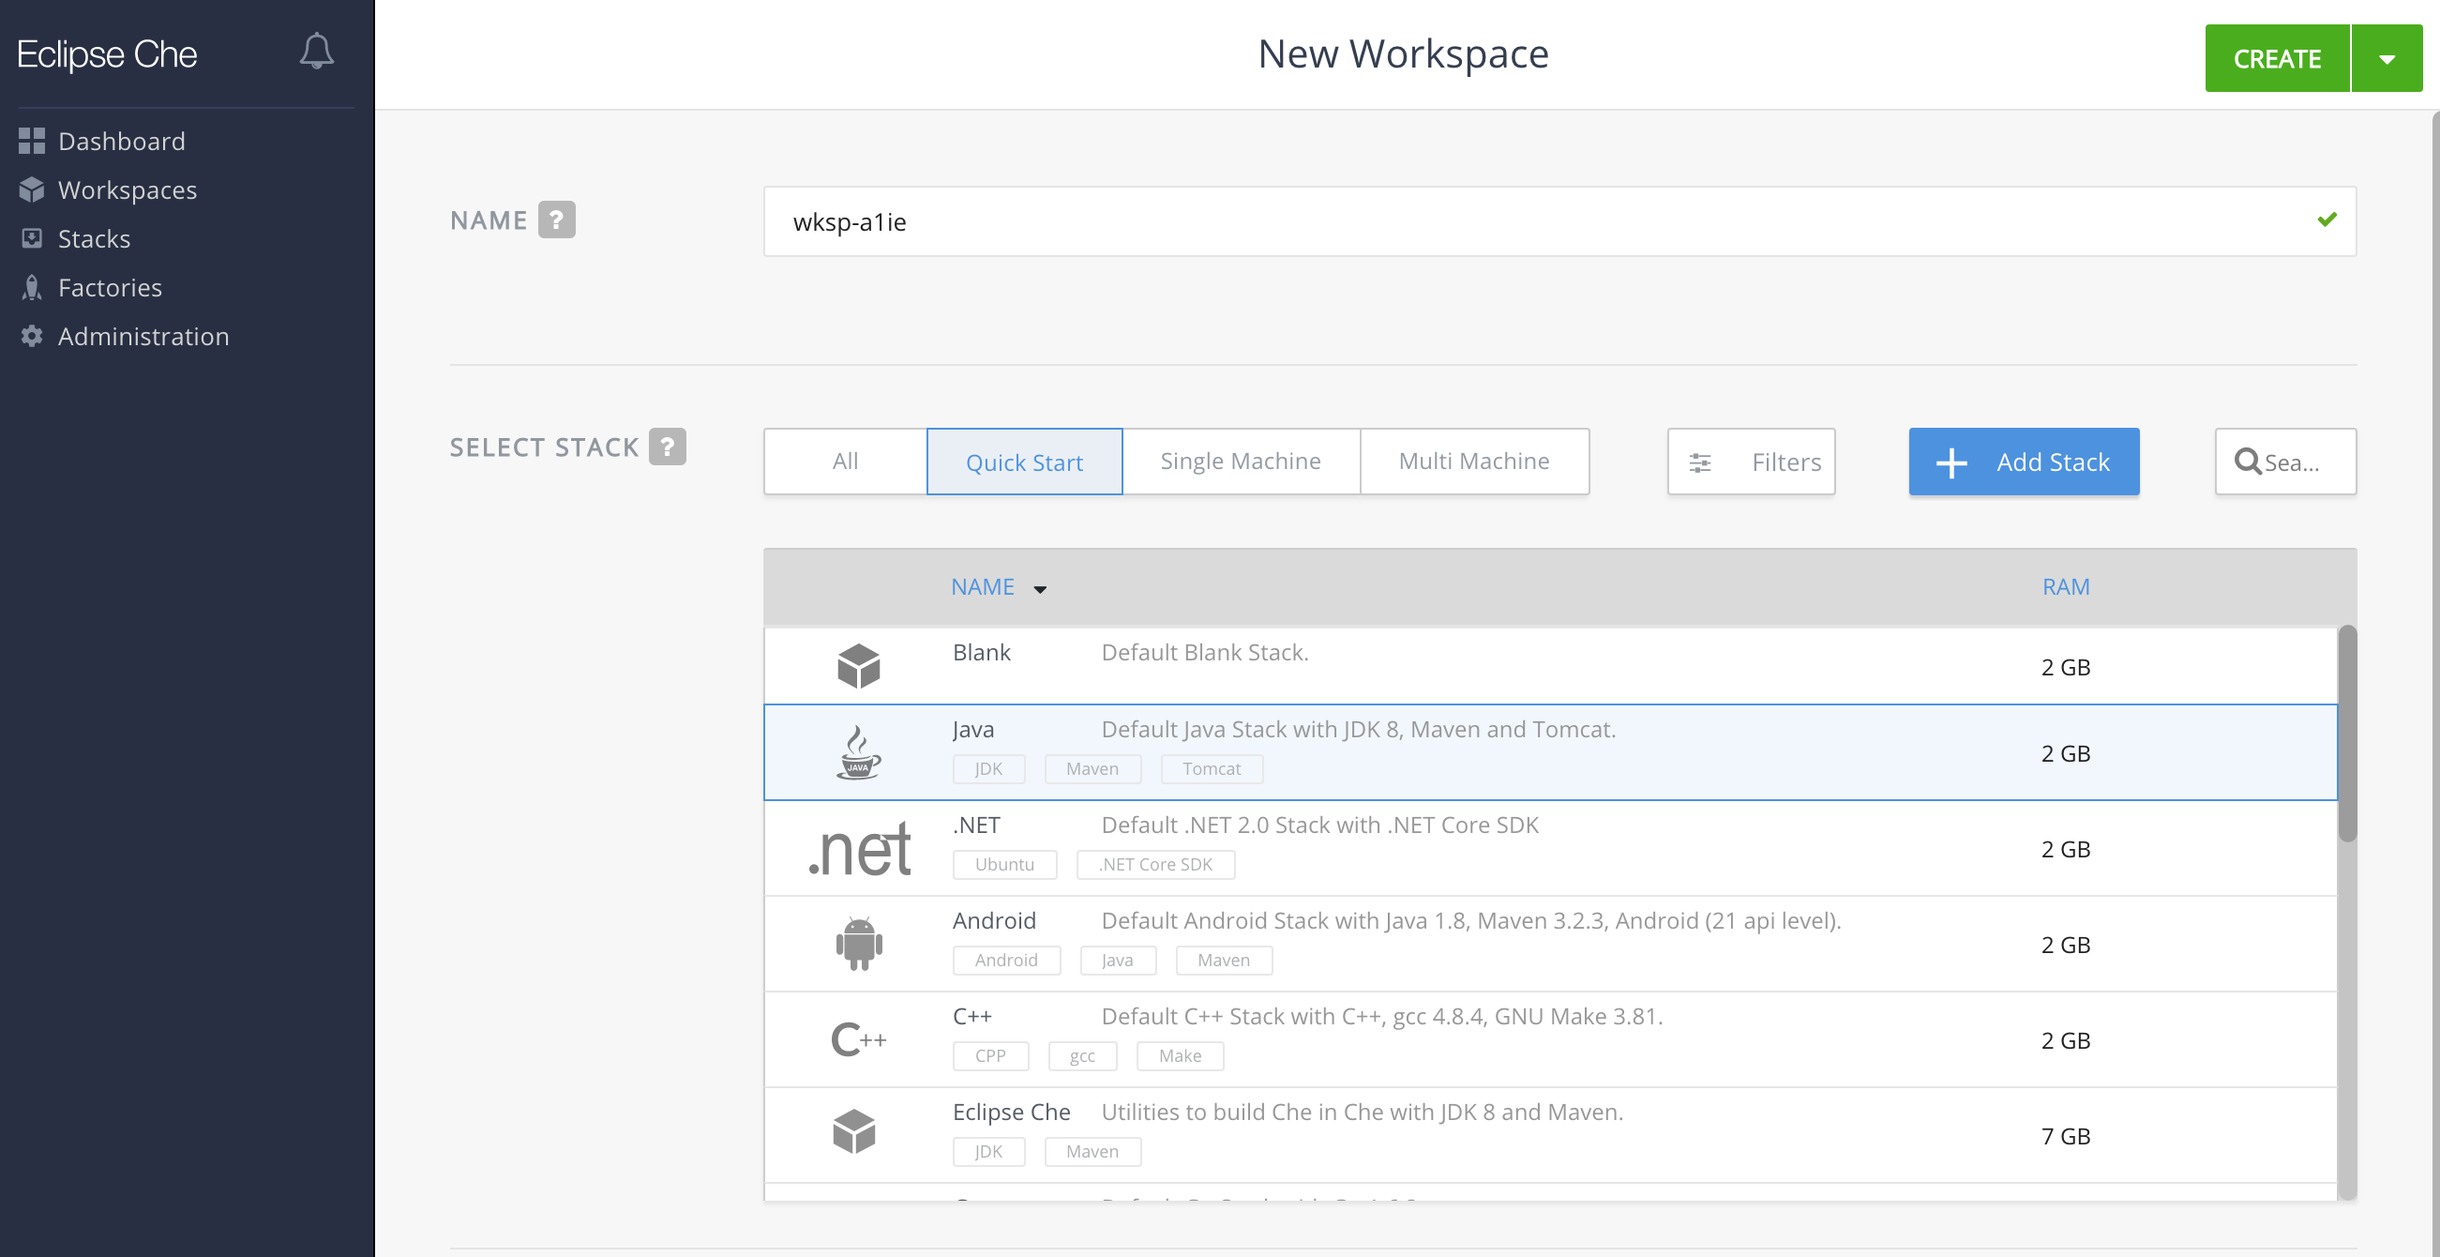
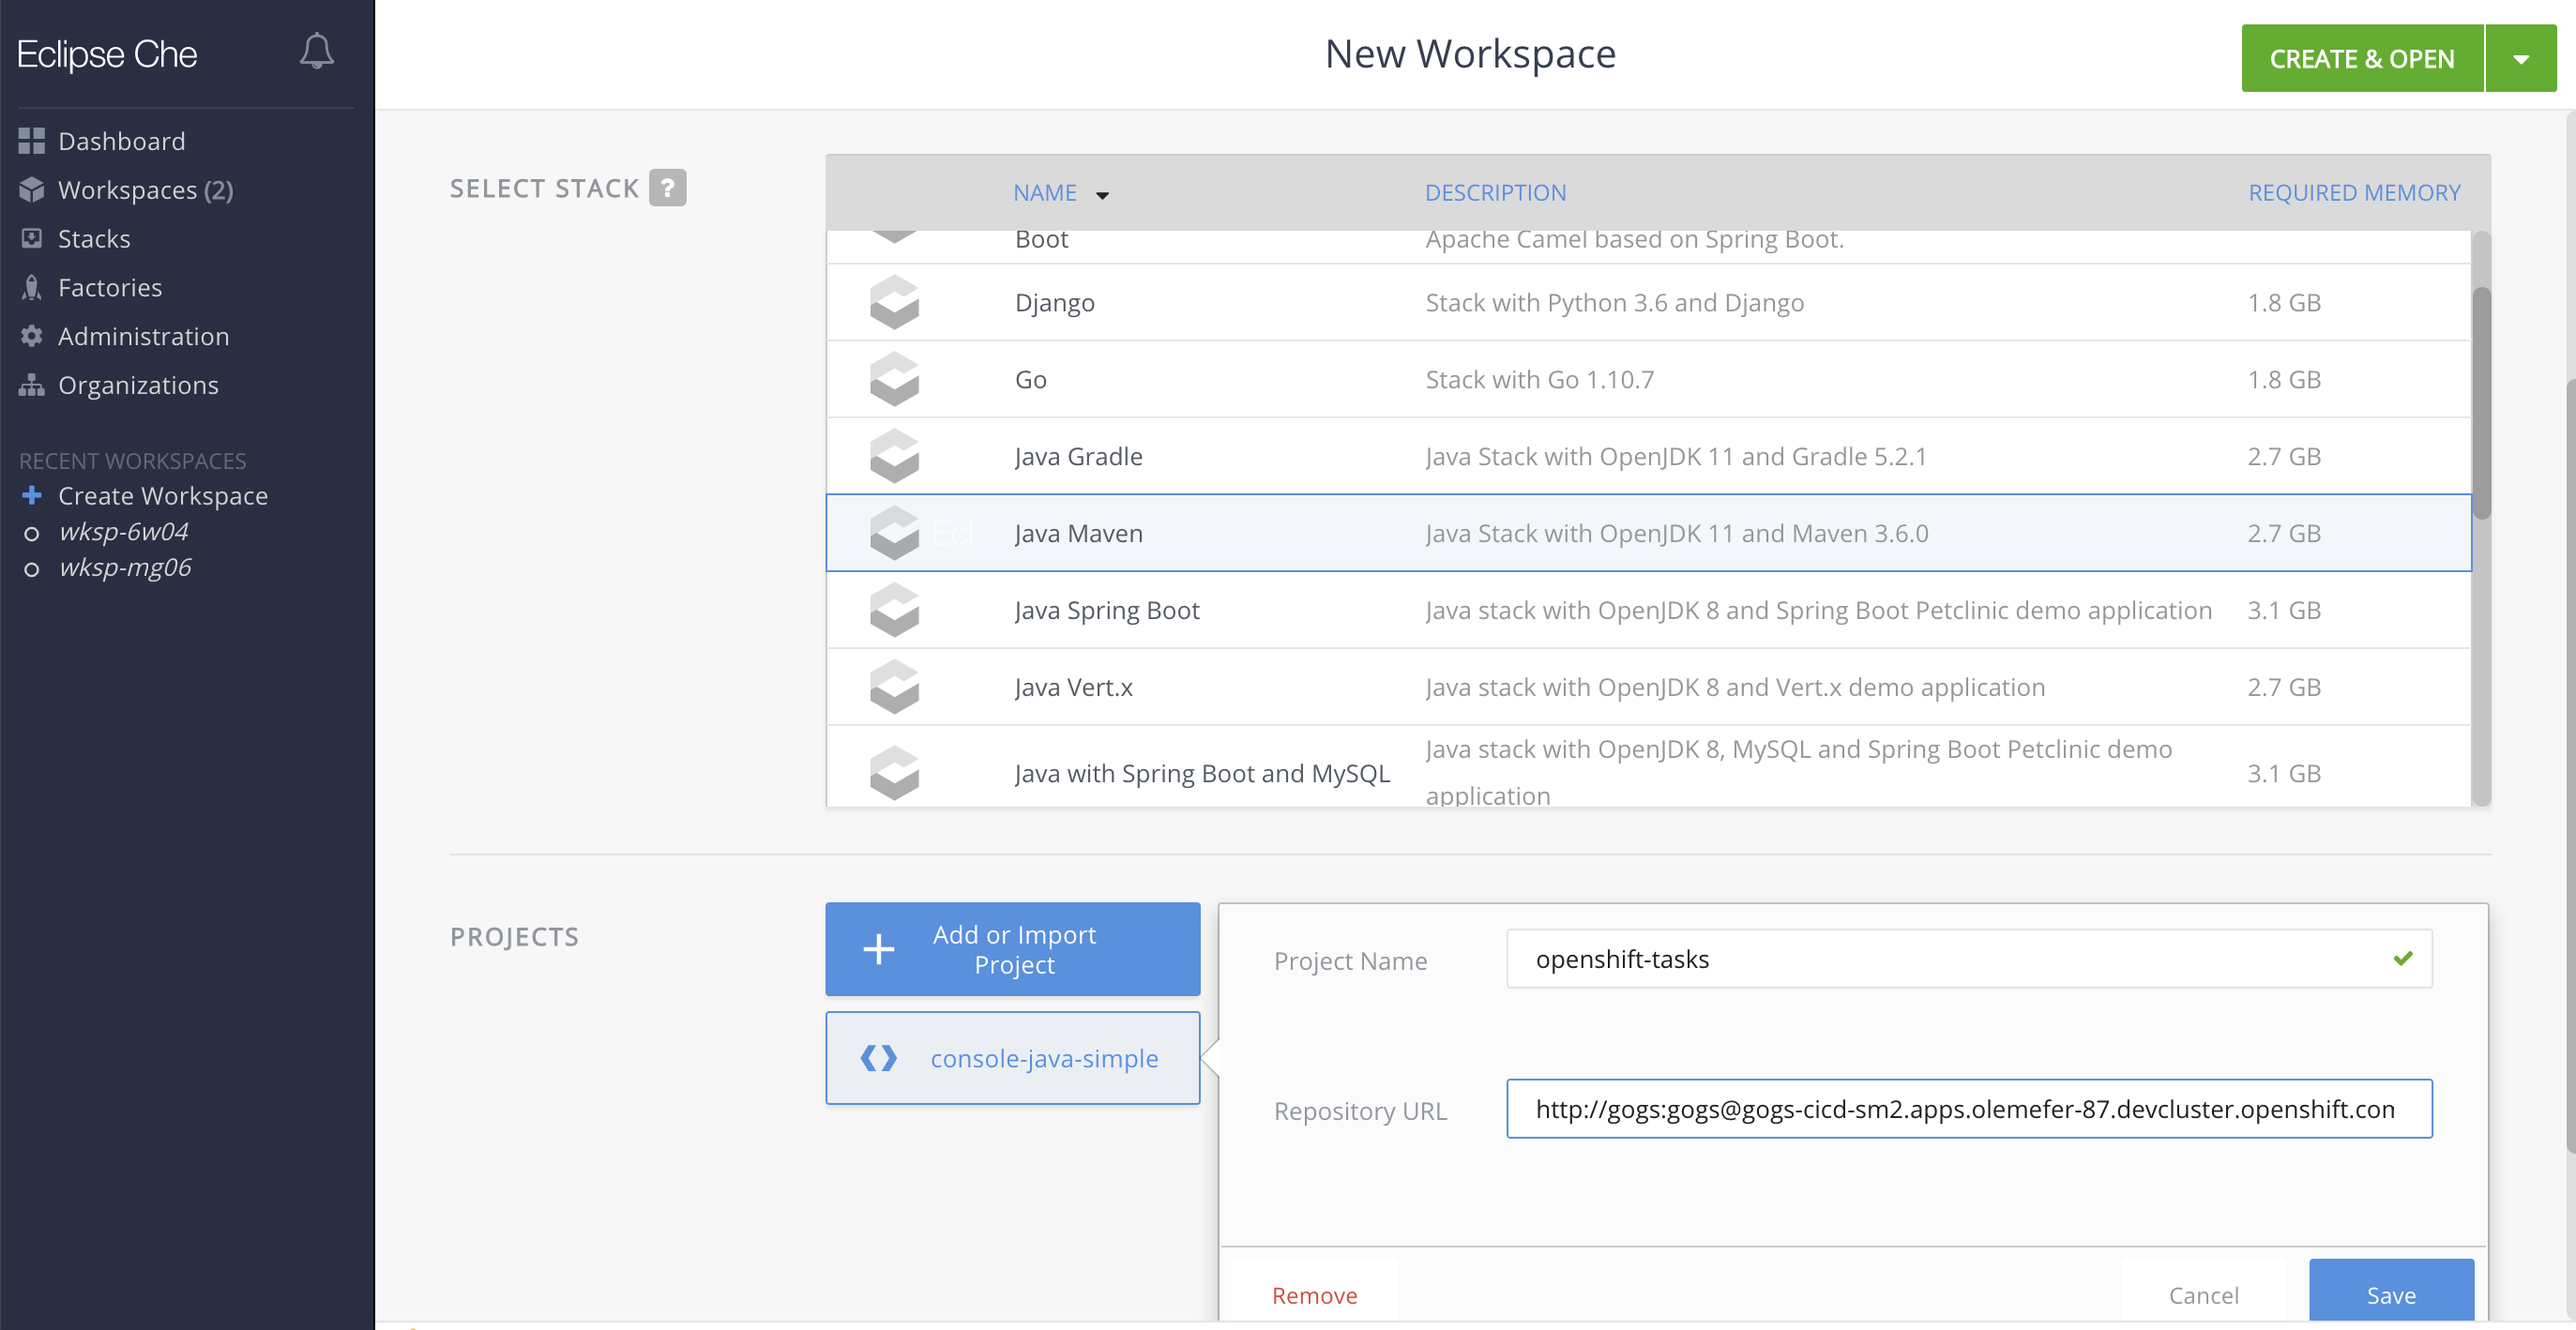
updated che instructions

diff --git a/docs/using-eclipse-che.md b/docs/using-eclipse-che.md
@@ -2,52 +2,38 @@
 
 Here is a step-by-step guide for editing and pushing the code to the Gogs repository using Eclipse Che.
 
-Click on Eclipse Che route url in the CI/CD project which takes you to the workspace administration page. Select the *Java* stack and click on the *Create* button to create a workspace for yourself.
+Click on Eclipse Che route url in the CI/CD project which takes you to the workspace administration page. Select the *Java Maven* stack. Under the *Projects* section, enter `openshift-tasks` as the *Project Name* and the following the Gogs repository URL as the Git repository URL (replace _gogs-hostname_ with your own Gogs URL):
+
+`http://gogs:gogs@[gogs-hostname]/gogs/openshift-tasks.git`
+
+Click on *Save* and then on *Create & Open* button to create and open your workspace.
 
 ![](../images/che-create-workspace.png?raw=true)
 
-Once the workspace is created, click on *Open* button to open your workspace in the Eclipse Che in the browser.
+![](../images/che-workspace.png?raw=true)
 
-![](../images/che-open-workspace.png?raw=true)
+You will be working on the `eap-7` branch of the Git repository. Click on the branch name on the left lower corner of the screen where it says `master` and then choose the `origin/eap-7` branch to switch your working branch to `eap-7` branch.
 
-It might take a little while before your workspace is set up and ready to be used in your browser. Once it's ready, click on **Import Project...** in order to import the `openshift-tasks` Gogs repository into your workspace.
-
-![](../images/che-import-project.png?raw=true)
-
-Enter the Gogs repository HTTPS url for `openshift-tasks` as the Git repository url with Git username and password in the 
-url: <br/>
-`http://gogs:gogs@[gogs-hostname]/gogs/openshift-tasks.git`
-
- You can find the repository url in Gogs web console. Make sure the check the **Branch** field and enter `eap-7` in order to clone the `eap-7` branch which is used in this demo. Click on **Import**
-
-![](../images/che-import-git.png?raw=true)
-
-Change the project configuration to  **Maven** and then click **Save**
-
-![](../images/che-import-maven.png?raw=true)
-
-Configure you name and email to be stamped on your Git commity by going to **Profile > Preferences > Git > Committer**.
-
-![](../images/che-configure-git-name.png?raw=true)
+![](../images/che-select-git-ref.png?raw=true)
 
 Follow the steps 6-10 in the above guide to edit the code in your workspace. 
 
 ![](../images/che-edit-file.png?raw=true)
 
-In order to run the unit tests within Eclipse Che, wait till all dependencies resolve first. To make sure they are resolved, run a Maven build using the commands palette icon or by clicking on **Run > Commands Palette > build**. 
-
-Make sure you run the build again, after fixing the bug in the service class.
-
-Run the unit tests in the IDE after you have corrected the issue by right clicking on the unit test class and then **Run Test > Run JUnit Test**
-
-![](../images/che-run-tests.png?raw=true)
-
-![](../images/che-junit-success.png?raw=true)
-
-
-Click on **Git > Commit** to commit the changes to the `openshift-tasks` git repository. Make sure **Push committed changes to ...** is checked. Click on **Commit** button.
+Click on the `Source Control: Git` in the left sidebar to change to the source control explorer. From the `...` menu, click on `Commit All`. You can also use `Command + Shift + P` to open the commands palette and search for `Commit All`.
 
 ![](../images/che-commit.png?raw=true)
 
-As soon the changes are committed to the git repository, a new instances of pipeline gets triggers to test and deploy the 
-code changes.
+You will get a dialog asking if Che should add all modified resources for the commit. Click on *Yes*, enter a text as the commit message and then press enter.
+
+![](../images/che-commit-all.png?raw=true)
+
+As soon the changes are committed to the git repository, a new instances of pipeline gets triggers to test and deploy the code changes.
+
+
+
+
+
+
+
+

diff --git a/README.md b/README.md
@@ -37,16 +37,17 @@ The application used in this pipeline is a JAX-RS application which is available
 ## Prerequisites
 * 10+ GB memory
 
-## Deploy on RHPDS
 
-If you have access to RHPDS, provisioning of this demo is automated via the service catalog under **OpenShift Demos &rarr; OpenShift CI/CD for Monolith**. If you don't know what RHPDS is, read the instructions in the next section.
+# Get OpenShift 4
+
+[Download and install CodeReady Containers](https://developers.redhat.com/products/codeready-containers/overview) in order to create a local OpenShift 4 cluster on your workstation. Otherwise [create an OpenShift 4 cluster](https://try.openshift.com) on the public cloud or the infrastructure of your choice.
 
 ## Automated Deploy on OpenShift
 You can se the `scripts/provision.sh` script provided to deploy the entire demo:
 
   ```
   ./provision.sh --help
-  ./provision.sh deploy --enable-che --ephemeral # with Eclipse Che
+  ./provision.sh deploy 
   ./provision.sh delete 
   ```
 If you want to use Quay.io as an external registry with this demo, Go to quay.io and register for free. Then deploy the demo providing your 
@@ -60,7 +61,8 @@ on your Quay.io account and use that instead of the integrated OpenShift
 registry, for pushing the built images and also pulling images for deployment. 
   
 ## Manual Deploy on OpenShift
-Follow these [instructions](docs/local-cluster.md) in order to create a local OpenShift cluster. Otherwise using your current OpenShift cluster, create the following projects for CI/CD components, Dev and Stage environments:
+
+Create the following projects for CI/CD components, Dev and Stage environments:
 
   ```shell
   # Create Projects
@@ -153,9 +155,10 @@ This demo by default uses the WildFly community image. You can use the JBoss EAP
 
 ## Using Eclipse Che for Editing Code
 
-If you deploy the demo template using `DEPLOY_CHE=true` paramter, or the deploy script and use `--deploy-che` flag, then an [Eclipse Che](https://www.eclipse.org/che/) instances will be deployed within the CI/CD project which allows you to use the Eclipse Che web-based IDE for editing code in this demo.
+You can install Eclipse Che on OpenShift 4 using the OperatorHub. Follow the [Installing Che on OpenShift 4 from OperatorHub](https://www.eclipse.org/che/docs/che-7/installing-che-on-openshift-4-from-operatorhub/) docs in order to install Eclipse Che 7. Alternatively, if you OpenShift cluster is accessible over the internet, you can use the hosted Eclipse Che service at https://che.openshift.io .
 
-Follow these [instructions](docs/using-eclipse-che.md) to use Eclipse Che for editing code in the above demo flow.  
+
+You can then follow these [instructions](docs/using-eclipse-che.md) to use Eclipse Che for editing code in the above demo flow.  
 
 # Watch on YouTube
 
